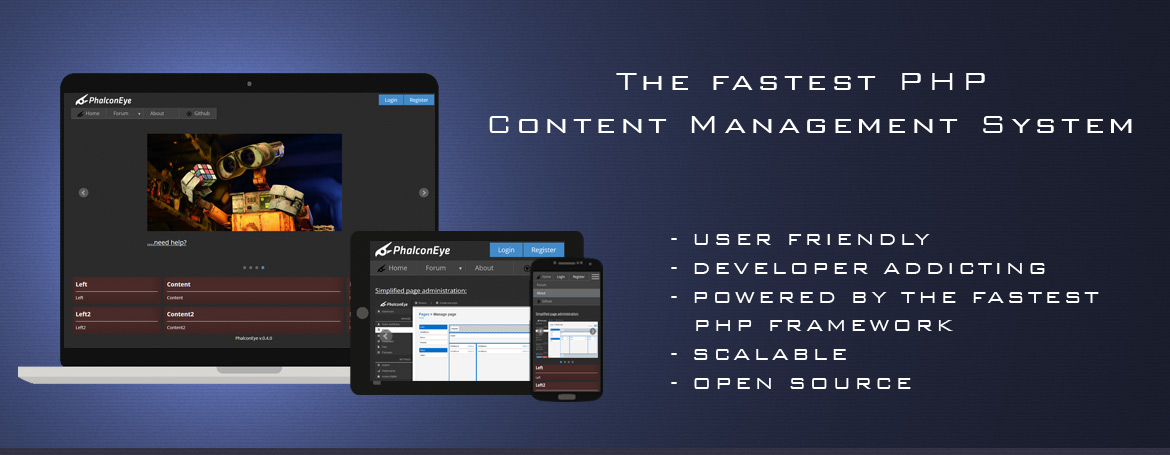
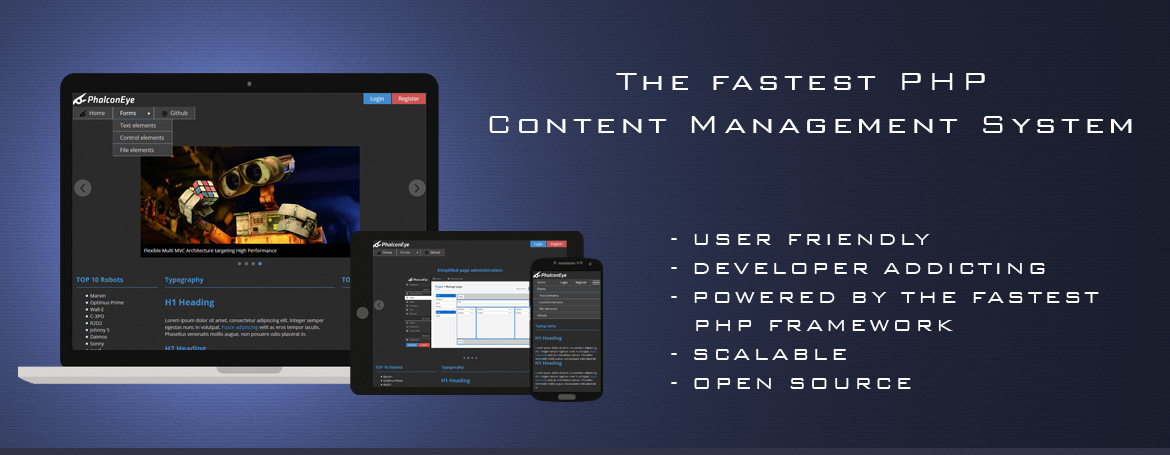
Responsive tmpl - final fixes, W3C revise, added footer

Changed region(s): [[0.0308, 0.1846, 0.5231, 0.8615], [0.3077, 0.1846, 0.3692, 0.4923]]

diff --git a/public/themes/default/footer.less b/public/themes/default/footer.less
@@ -1,0 +1,58 @@
+/*
+  +------------------------------------------------------------------------+
+  | PhalconEye CMS                                                         |
+  +------------------------------------------------------------------------+
+  | Copyright (c) 2013-2014 PhalconEye Team (http://phalconeye.com/)       |
+  +------------------------------------------------------------------------+
+  | This source file is subject to the New BSD License that is bundled     |
+  | with this package in the file LICENSE.txt.                             |
+  |                                                                        |
+  | If you did not receive a copy of the license and are unable to         |
+  | obtain it through the world-wide-web, please send an email             |
+  | to license@phalconeye.com so we can send you a copy immediately.       |
+  +------------------------------------------------------------------------+
+  | Author: Ivan Vorontsov <ivan.vorontsov@phalconeye.com>                 |
+  | Author: Piotr Gasiorowski <p.gasiorowski@vipserv.org>                  |
+  +------------------------------------------------------------------------+
+*/
+
+footer {
+  color: @footerColor;
+
+  section {
+    background: @footerBackground;
+  }
+
+  .social-icons {
+    margin: 0;
+    padding: 0;
+
+    li {
+      float: left;
+      list-style: none outside none;
+      border: none;
+
+      a {
+        background-color: transparent;
+        background-image: url("@{baseUrl}files/mini-social-icons.png");
+        background-repeat: no-repeat;
+        background-size: auto 96px; border: 0 none;
+        color: white;
+        display: block;
+        height: 32px;
+        overflow: hidden;
+        text-align: left; text-decoration: none;
+        text-indent: -999em;
+        .transition();
+        width:32px
+      }
+
+      &.facebook a{ background-position: 0 -1px;      &:hover { background-position: 0 -32px }}
+      &.gplus    a{ background-position: -96px -1px;  &:hover { background-position: -96px -32px }}
+      &.rss      a{ background-position: -192px -1px; &:hover { background-position: -192px -32px }}
+      &.twitter  a{ background-position: -256px -1px; &:hover { background-position: -256px -32px }}
+      &.youtube  a{ background-position: -320px -1px; &:hover { background-position: -320px -32px }}
+      &.skype    a{ background-position: -224px -1px; &:hover { background-position: -224px -32px }}
+    }
+  }
+}

diff --git a/public/themes/default/mixins.less b/public/themes/default/mixins.less
@@ -16,28 +16,34 @@
   +------------------------------------------------------------------------+
 */
 
+
 .border-radius (@radius: 5px) {
-  -webkit-border-radius: @radius;
-  -moz-border-radius: @radius;
-  border-radius: @radius;
+  border-radius: @radius;                  /* Chrome 5+, Android 2.2+, Firefox 4+, IE 9+, iOS 4+, Opera 10.50+, Safari 5+ */
+  background-clip: padding-box;            /* useful if you don't want a bg color from leaking outside the border: */
 }
 
-.box-shadow(@arguments) {
-  -webkit-box-shadow: @arguments;
-  -moz-box-shadow: @arguments;
-  box-shadow: @arguments;
+.box-shadow (@arguments) {
+  -webkit-box-shadow: @arguments;          /* Chrome 4+, iOS 4+, Safari 5.0+ */
+  box-shadow: @arguments;                  /* Chrome 10+, Firefox 4+, IE 9+, iOS 5+, Opera 10.50+ */
 }
 
-.box-sizing(@type: border-box) {
-  -webkit-box-sizing: @type;
-  -moz-box-sizing: @type;
-  box-sizing: @type;
+.box-sizing (@type: border-box) {
+  -webkit-box-sizing: @type;               /* Chrome 4+, iOS 4+, Android 2.1+, Safari 3.2+ */
+  -moz-box-sizing: @type;                  /* Firefox 2+ */
+  box-sizing: @type;                       /* Chrome 10+, Firefox 29+, IE 8+, Opera 9.5+, Safari 5+ */
 }
 
-.transition(@scope: all, @delay: 0.25s, @ease: ease) {
-  -webkit-transition: @scope @delay @ease;
-  -moz-transition: @scope @delay @ease;
-  -ms-transition: @scope @delay @ease;
-  -o-transition: @scope @delay @ease;
-  transition: @scope @delay @ease;
+.transform (@arguments) {
+  -webkit-transform: @arguments;           /* Chrome 4+, iOS 3.2+, Android 2.1+, Opera 15+, Safari 3.1+ */
+  -moz-transform: @arguments;              /* Firefox 3.5+ */
+  -ms-transform: @arguments;               /* IE 9+ */
+  -o-transform: @arguments;                /* Opera 10.5+ */
+  tranform: @arguments;                    /* Chrome 36+, Firefox 16+, IE 10+ */
+}
+
+.transition (@scope: all, @delay: 0.25s, @ease: ease) {
+  -webkit-transition: @scope @delay @ease; /* Chrome 4+, iOS 3.2+, Android 2.1+, Safari 3.2+  */
+  -moz-transition: @scope @delay @ease;    /* Firefox 4+ */
+  -o-transition: @scope @delay @ease;      /* Opera 10.50+ */
+  transition: @scope @delay @ease;         /* Chrome 26+, Firefox 16+, Android 4.4+, iOS 7+, IE 10+, Opera 12.1, Safari 6.1+ */
 }

diff --git a/app/modules/Core/Assets/js/form/dynamic-field.js b/app/modules/Core/Assets/js/form/dynamic-field.js
@@ -115,11 +115,16 @@
                 }
 
                 // Reset value and increase id
+                var replaced = false;
+
                 realElement
                     .val('')
                     .attr('id', element.attr('id').replace(/(\d+)/, function() {
+                        replaced = true;
                         return parseInt(arguments[1]) + 1;
                     }));
+
+                replaced || realElement.attr('id', realElement.attr('id') + "1");
 
                 // Needed for re-initializing CKEditor
                 if (clone.data('widget') == '(ckeditor):invoked') {
@@ -166,14 +171,14 @@
                 if (this._canRemove(scope)) {
 
                     var name = scope.data('dynamic'),
-                        element = $('[name="'+ name +'"]', scope).last();
+                        element = $('[name="'+ name +'"]', scope).last(),
+                        widget = element.data('widget');
 
                     // Remove the last element
                     if (element.parent().hasClass('form_element_remote_file')) {
                         element.parent().remove();
                     } else {
-
-                        if (element.data('widget') == '(ckeditor):invoked') {
+                        if (widget == 'ckeditor' || widget == '(ckeditor):invoked') {
                             root.widget.ckeditor.destroy(element);
                         }
 

diff --git a/public/themes/default/media.less b/public/themes/default/media.less
@@ -20,6 +20,10 @@
  */
 @media screen and (max-width: (@viewportTablet - 1)) {
 
+  .phone-hidden, .tablet-visible, .desktop-visible {
+    display: none !important;
+  }
+
   header .header_auth {
     position: absolute;
     right: 2.28 * @buttonNavHeight;
@@ -53,6 +57,9 @@
  * Tablets
  */
 @media screen and (min-width: @viewportTablet) and (max-width: (@viewportDesktop - 1)) {
+  .phone-visible, .tablet-hidden, .desktop-visible {
+    display: none !important;
+  }
   .header_logo {
     float: left
   }
@@ -87,6 +94,9 @@
  * Desktops and Laptops
  */
 @media screen and (min-width: @viewportDesktop) {
+  .phone-visible, .tablet-visible, .desktop-hidden {
+    display: none !important;
+  }
   .header_logo {
     float: left
   }

diff --git a/public/themes/default/nav.less b/public/themes/default/nav.less
@@ -18,7 +18,6 @@
 
 .navbar {
   position: relative;
-  z-index: 10;
 
   .nav {
     li {
@@ -61,6 +60,7 @@
 
     & > li.dropdown:hover > .dropdown-menu {
       display: block;
+      z-index: 10;
     }
   }
 
@@ -178,15 +178,6 @@
   }
 
   ul li .dropdown-menu {
-    // Smartphone
-    @media screen and (max-width: (@viewportTablet - 1)) {
-      a:before {
-        border-left: 1px solid @buttonNavBgHoverColor;
-        content: " ";
-        margin-left: -20px;
-        padding-right: 10px;
-      }
-    }
     // Tablet and desktop
     @media screen and (min-width: @viewportTablet) {
       position: absolute;

diff --git a/app/engine/Package/Structure/theme/theme.less b/app/engine/Package/Structure/theme/theme.less
@@ -13,14 +13,15 @@
   +------------------------------------------------------------------------+
 */
 %header%
-
 @import "../default/constants";
 @import "../default/mixins";
 @import "../default/common";
 @import "../default/misc";
 @import "../default/layout";
 @import "../default/header";
+@import "../default/footer";
 @import "../default/nav";
 @import "../default/widgets";
 @import "../default/forms";
+@import "../default/forms-elements";
 @import "../default/media";

diff --git a/public/external/bxslider-4/jquery.bxslider.css b/public/external/bxslider-4/jquery.bxslider.css
@@ -217,7 +217,6 @@
   box-shadow: none;
   left: 0;
   transform: none;
-  height: auto !important;
 }
 
 .bx-wrapper .bx-pager.bx-default-pager a:hover,
@@ -257,9 +256,14 @@
     right: -10px;
 }
 
+.bx-wrapper .bx-caption {
+    bottom: 1em;
+}
+
 .bx-wrapper .bx-caption span {
     font: inherit !important;
     background-color: #000000;
+    padding: 0.5em 1em;
 }
 
 .bx-wrapper .bxslider > li {

diff --git a/public/themes/default/forms-elements.less b/public/themes/default/forms-elements.less
@@ -37,11 +37,15 @@ button, input[type=button], input[type=file], .btn {
   text-decoration: none;
   display: inline-block;
   vertical-align: middle;
-  &:hover, &:focus, &.btn-danger {
+  &:active, &:focus, &.active {
+    outline: 0;
+  }
+  &:hover, &.btn-danger {
     color: @buttonColor;
     background-color: @buttonBgHoverColor;
   }
 }
+
 a.btn {
   height: 1.29 * @fontSize;
 }

diff --git a/public/themes/default/forms.less b/public/themes/default/forms.less
@@ -62,6 +62,7 @@ form {
 
     .form_element, .form_label {
       float: left;
+      width: ~"-webkit-calc(50% - 2em)";
       width: ~"calc(50% - 2em)";
       padding: 0.5em 1em;
     }
@@ -161,7 +162,7 @@ form {
 
 /** Specific forms **/
 .form_login {
-  margin: 0 auto;
+  margin: 50px auto;
   max-width: 420px;
   width: 90%;
 }

diff --git a/public/themes/default/misc.less b/public/themes/default/misc.less
@@ -60,11 +60,7 @@
   width: 25px;
   height: 25px;
   box-shadow: 6px 5px 9px -9px black;
-  -webkit-transform: rotate(45deg);
-  -moz-transform: rotate(45deg);
-  -ms-transform: rotate(45deg);
-  -o-transform: rotate(45deg);
-  tranform: rotate(45deg);
+  .transform(rotate(45deg));
 }
 
 .arrow.top:after {

diff --git a/public/themes/light/theme.less b/public/themes/light/theme.less
@@ -21,6 +21,7 @@
 @import "../default/misc";
 @import "../default/layout";
 @import "../default/header";
+@import "../default/footer";
 @import "../default/nav";
 @import "../default/widgets";
 @import "../default/forms";

diff --git a/public/themes/light/constants.less b/public/themes/light/constants.less
@@ -68,3 +68,9 @@
 
 // Widgets
 @widgetHeaderBorder: 1px solid;
+
+// Header, Footer
+@headerBackground: #F0F8FF;
+@headerColor: @fontColor;
+@footerBackground: #F0F8FF;
+@footerColor: @fontColor;
